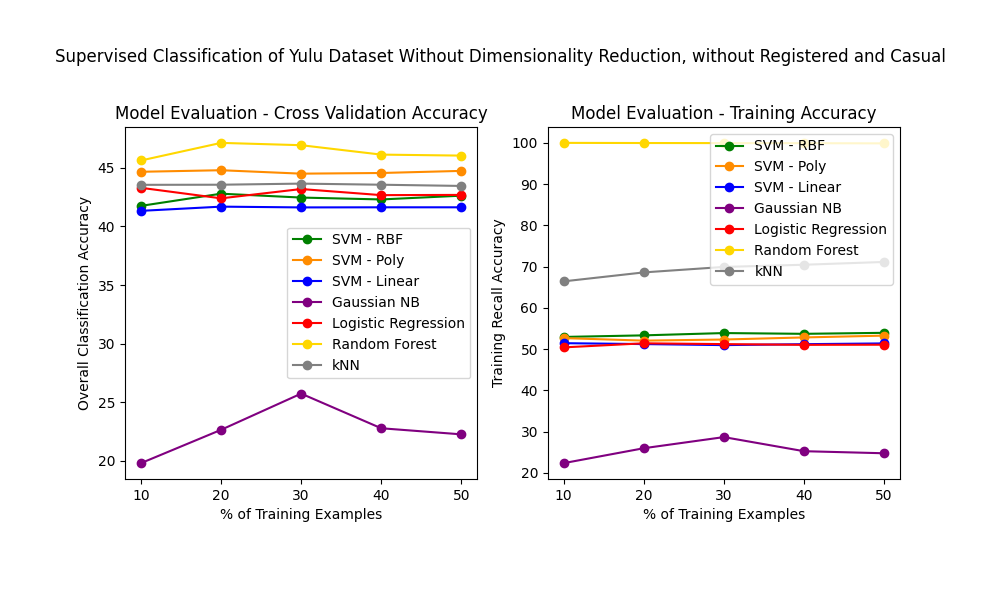
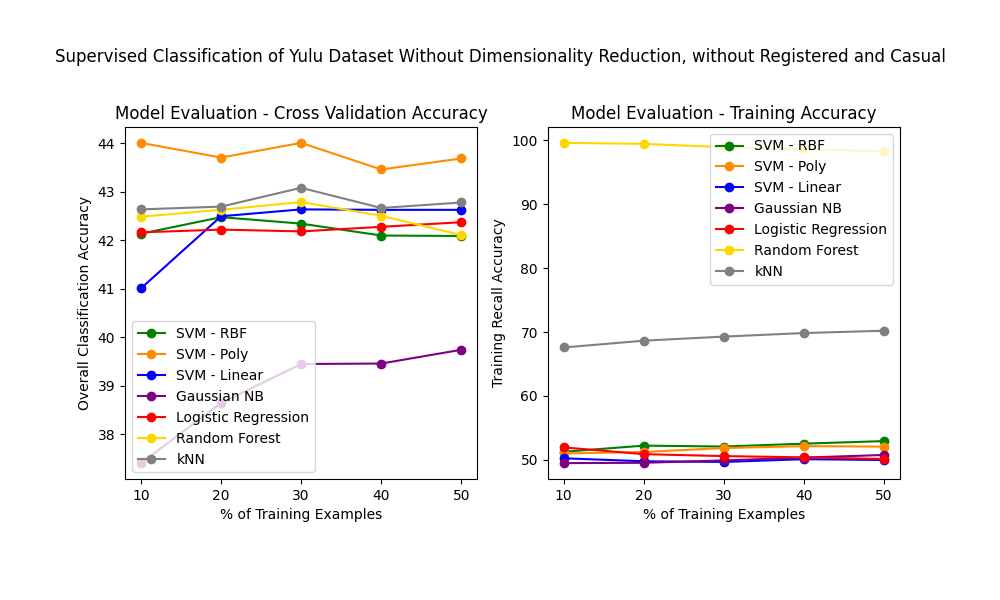
Recalculated all the plots again

diff --git a/main.py b/main.py
@@ -5,6 +5,7 @@ from matplotlib import pyplot as plt
 from sklearn.decomposition import PCA
 from sklearn.discriminant_analysis import LinearDiscriminantAnalysis
 from sklearn.ensemble import RandomForestClassifier
+from sklearn.feature_selection import mutual_info_regression
 from sklearn.linear_model import LogisticRegression
 from sklearn.metrics import r2_score, mean_squared_error
 from sklearn.model_selection import learning_curve, train_test_split
@@ -109,6 +110,7 @@ df = pd.read_csv("bike_rental_data.csv")
 # Convert date time into a structure where it is easier to extract data
 df['datetime'] = pd.to_datetime(df['datetime'])
 df['hour'] = df['datetime'].dt.hour
+df['month'] = df['datetime'].dt.month
 df.drop('datetime', axis=1, inplace=True)
 
 # Also try using casual or registered columns instead of count
@@ -128,8 +130,8 @@ num_colors = len(target['season'].unique())  # Number of unique seasons
 palette = sns.color_palette('bright', n_colors=num_colors)
 
 # Plot the pairplot with updated palette
-ax = sns.pairplot(df_pair, height=2, aspect=0.7, palette=palette)
-plt.savefig('pair_plot_no_debug.png')
+#ax = sns.pairplot(df_pair, height=2, aspect=0.7)
+#plt.savefig('pair_plot_no_debug.png')
 
 # ******************************
 # CORRELATION MATRIX
@@ -186,7 +188,7 @@ print(target['count'].value_counts())
 # Normalization
 norm = MinMaxScaler()
 df_final = pd.DataFrame(norm.fit_transform(df))
-df_final.columns = ['temp', 'atemp', 'humidity', 'windspeed', 'casual', 'registered', 'count', 'hour']
+df_final.columns = ['temp', 'atemp', 'humidity', 'windspeed', 'casual', 'registered', 'count', 'hour', 'month']
 
 # ******************************
 # FEATURE SELECTION
@@ -196,6 +198,7 @@ df_final.columns = ['temp', 'atemp', 'humidity', 'windspeed', 'casual', 'registe
 q1 = df_final['count'].quantile(0.25)
 q3 = df_final['count'].quantile(0.75)
 iqr = q3-q1
+
 outliers = df_final.index[((df_final['count'] < q1-(1.5 * iqr)) | (df_final['count'] > q3+(1.5 * iqr)))].tolist()
 target = target.drop(index=outliers, axis=0)
 df_final = df_final.drop(index=outliers, axis=0)
@@ -204,11 +207,26 @@ df_final = pd.concat(objs=[df_final, target['season'], target['holiday'], target
 # Drop target values
 df_final.drop(['count'], axis=1, inplace=True)
 
+discrete_features = df_final.dtypes == int
+scores = mutual_info_regression(df_final, target['count'], discrete_features=discrete_features, random_state=42)
+scores = pd.Series(scores, name='Mutual Information', index=df_final.columns)
+# scores = scores.sort_values(ascending=False)
+scores = scores.sort_values(ascending=True)
+width = np.arange(len(scores))
+ticks = list(scores.index)
+plt.figure(figsize=(8, 6))
+plt.barh(width, scores)
+plt.yticks(width, ticks)
+plt.title("Yulu Dataset Mutual Information Scores")
+plt.savefig("mutual_info_scores")
+plt.show()
+
 # Assigning X and Y for LDA
 x_lda = df_final
 y_lda = target['count']
 
 df_noreg = df_final.drop(['registered', 'casual'], axis=1)
+df_noreg.drop(['holiday', 'workingday', 'weather', 'windspeed'], axis=1, inplace=True)
 x_lda_noreg = df_noreg
 
 # LDA
@@ -282,7 +300,6 @@ classifier_labels = {"SVM - RBF": (SVC(kernel="rbf", random_state=1), "green"),
                      "Random Forest": (RandomForestClassifier(random_state=1), "gold"),
                      "kNN": (KNeighborsClassifier(n_neighbors=5), "gray")}
 
-
 # **WARNING**, this section of the code can take up to 10 min to run
 fig1, normal_scores = plot_learning_curve(est_arr=classifier_labels, X=df_final, y=target['count'], train_sizes=np.linspace(start=0.1, stop=0.5, num=5), cv=5, n_jobs=1,
                    title="Supervised Classification of Yulu Dataset Without Dimensionality Reduction")
@@ -306,7 +323,6 @@ fig3, lda_scores = plot_learning_curve(est_arr=classifier_labels, X=x_lda_noreg,
                    title="Supervised Classification of Yulu Dataset With LDA Dimensionality Reduction, without Registered and Casual")
 plt.savefig('classification_accuracy_LDA_count_no_reg')
 plt.show()
-
 
 # Using classification data, test best classifier
 x_train, x_test, y_train, y_test = train_test_split(x_lda, y_lda, train_size=0.5, random_state=1, shuffle=True)
